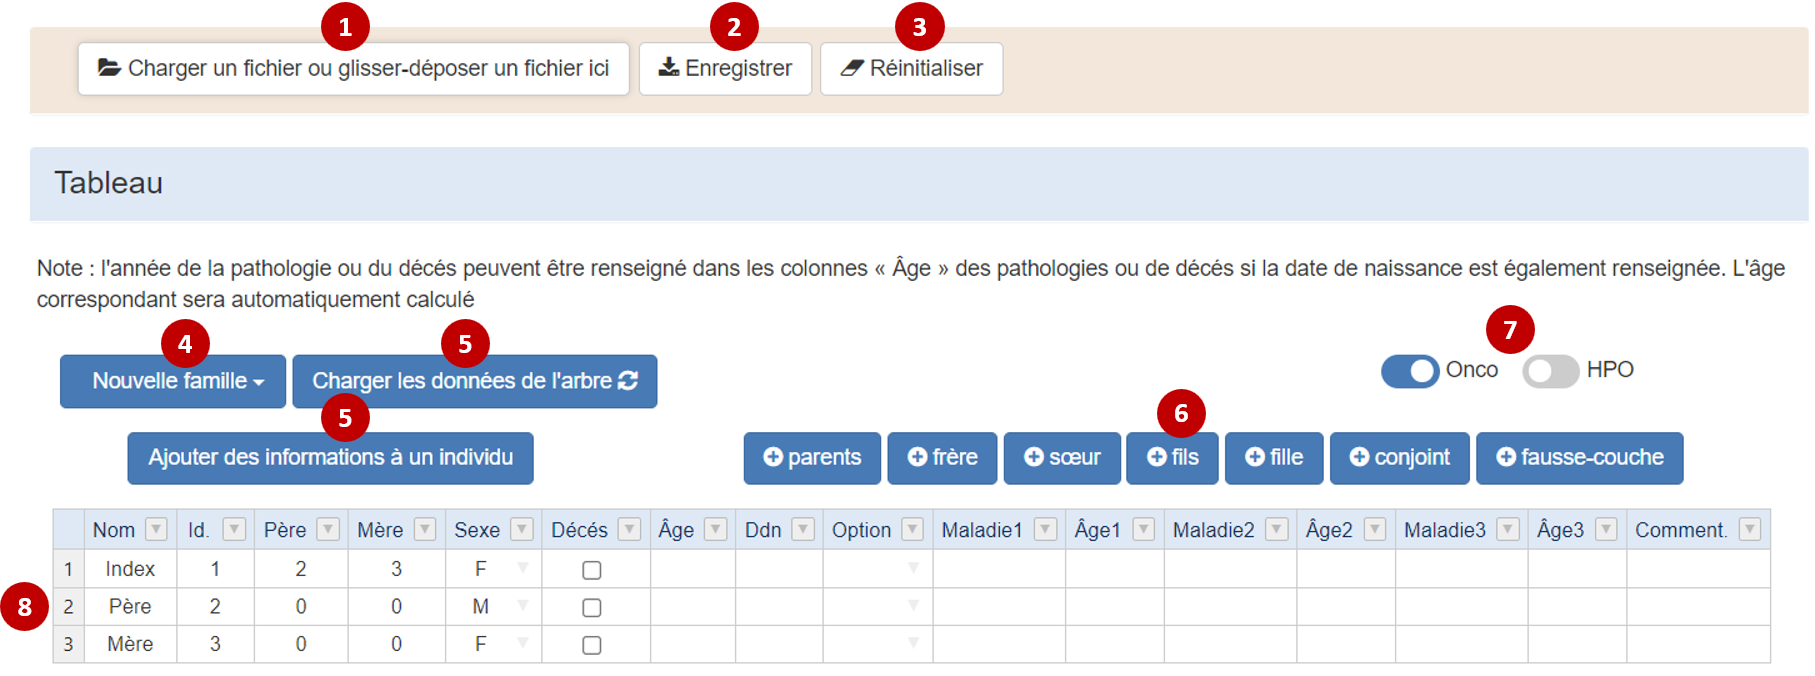
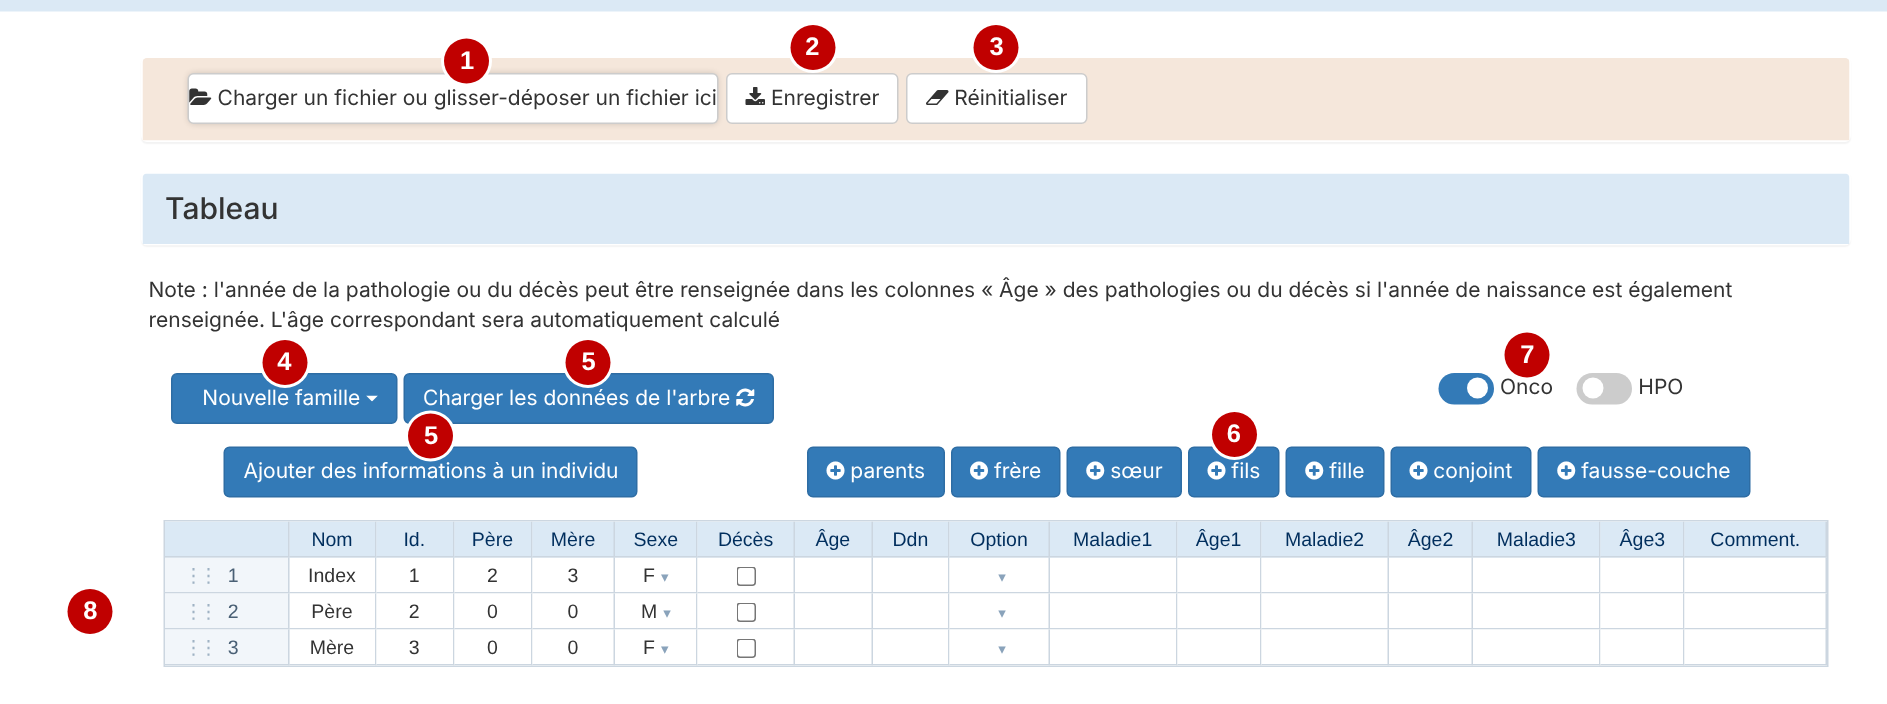
Update the README, the guide and the About page
- README rewritten: features, privacy, pages, code layout, tests, credits;
  Handsontable is no longer a base of the tool
- guide: the table paragraph describes the current table (keyboard, copy and
  paste, undo, lists, drag handle, delete button, protected index line);
  Figure 1 regenerated from the current tool
- About: export list completed (CanRisk, GEDCOM), patient interface and
  privacy mentioned
- French typos in the table note and guide ("décès", agreement)
- package.json: unused handsontable dependency removed

diff --git a/lang/lang.fr.js b/lang/lang.fr.js
@@ -7,7 +7,7 @@ var lang = {
     title:"GeneTree",
     subtitle:"Un outil intégré pour construire un arbre généalogique, téléchargeable en fichier BOADICEA, et l'histoire clinique d'une famille.",
     
-    introduction_txt:"Note : l'année de la pathologie ou du décés peuvent être renseigné dans les colonnes « Âge » des pathologies ou de décés si la date de naissance est également renseignée."+
+    introduction_txt:"Note : l'année de la pathologie ou du décès peut être renseignée dans les colonnes « Âge » des pathologies ou du décès si l'année de naissance est également renseignée."+
     " L'âge correspondant sera automatiquement calculé",
 
     title_table:"Tableau",
@@ -87,15 +87,17 @@ var lang = {
     "Cet outil dispose d'un mode spécifique pour la consultation d'oncogénétique et d’un mode utilisant les phénotypes HPO. ",
     about_text2:"La famille peut être chargée (fichiers JSON ou BOADICEA) ou créée à partir d'une structure standard ou personnalisée, "+ 
     "puis complétée via un tableau ou une interface graphique, tous deux interconnectés. \n",
-    about_text3: "L'arbre est exportable dans plusieurs formats de fichiers (TSV, JSON, PED, BOADICEA) et modifiable "+ 
+    about_text3: "L'arbre est exportable dans plusieurs formats de fichiers (TSV, JSON, PED, BOADICEA, CanRisk, GEDCOM) et modifiable "+ 
     "par un éditeur vectoriel (format PDF, SVG) ou peut être imprimé directement. \n",
     about_text4:"Enfin, cette application permet la génération automatique de texte à partir du contenu du tableau correspondant "+ 
     "à l’histoire personnelle et familiale du patient.  Il s’agit, à ma connaissance, de la seule solution permettant "+ 
     "ainsi de rédiger en un clic une partie importante du compte-rendu de consultation.\n",
     about_text5:"L’interface en ligne optimisée pour le navigateur Google Chrome permet une utilisation simple sans nécessiter d’installation préalable. "+
     "Cet outil a été particulièrement pensé pour les consultations d'oncogénétique afin d'éviter la triple saisie "+ 
-    "(texte – arbre généalogique - score de risque Boadicea ou CanRisk).\n",
-    about_text6:"GeneTree est développé est maintenu par le Dr Jean-Marie Ravel avec la participation des membres de l'équipe de génétique clinique "+
+    "(texte – arbre généalogique - score de risque Boadicea ou CanRisk).\n" +
+    "Une interface patient permet en outre au patient de saisir son histoire familiale avant la consultation, sur ordinateur ou sur téléphone. " +
+    "Aucune donnée n'est envoyée à un serveur : tout le traitement se fait dans le navigateur.\n",
+    about_text6:"GeneTree est développé et maintenu par le Dr Jean-Marie Ravel avec la participation des membres de l'équipe de génétique clinique "+
     "du CHRU de Nancy (France).",
 
     //guide
@@ -112,9 +114,11 @@ var lang = {
     guide_intro3:"Il existe également deux modes d'utilisation optionnels permettant de restreindre les pathologies (7) :",
     guide_introOnco:"le mode 'onco' est destiné aux consultations d'oncogénétique. Il permet de pré-remplir la liste des pathologies avec les cancers fréquents",
     guide_introHPO:"le mode 'HPO' limite la liste des pathologies aux symptômes et maladies des bases HPO et ORPHAdata.",
-    guide_intro4:"Le tableur (8) est également utilisable comme un tableur excel : il est possible de copier et coller des lignes. "+
-    "Il est possible également de sélectionner une ou plusieurs lignes et de les glisser à une autre position. Cela peut être utile lorsque"+
-    "l'arbre généré a des branches croisées.",
+    guide_intro4:"Le tableau (8) s'utilise comme un tableur : saisie directe au clavier (Entrée, Tab, flèches), copier-coller de cellules avec Excel, "+
+    "annulation (Ctrl+Z) et rétablissement (Ctrl+Y). Un clic sur une cellule « Sexe » ou « Option » ouvre sa liste ; un clic sur une cellule de pathologie ouvre la liste des cancers ou des termes HPO." + "\n" +
+    "Pour déplacer une ligne, faites-la glisser par la poignée (⋮⋮) située à gauche de son numéro : cela peut être utile lorsque "+
+    "l'arbre généré a des branches croisées. Pour supprimer une ligne, cliquez sur la croix (×) qui apparaît au survol de son numéro. " +
+    "Le cas index et ses ascendants ne peuvent pas être supprimés ; pour une personne ayant des enfants, la liste des personnes supprimées avec elle est affichée avant confirmation.",
     guide_famTitle:"Création d'une famille",
     guide_famTitle1:"Chargement d'un fichier",
     guide_fam0:"Une famille déjà créée peut être chargée grâce au bouton dédié (1). " +
@@ -137,7 +141,7 @@ var lang = {
     guide_mod0: "Une fois un individu sélectionné, il est possible de cliquer sur les boutons afin d'ajouter un apparenté (6) : frère, soeur, fils, fille, parents, nouveau conjoint, fausse-couche.",
     guide_modTitle2:"Personnalisation d'un individu",
     guide_mod1:"Plusieurs paramètres peuvent être remplis pour chaque individu : genre, décès, âge, année de naissance, pathologie avec âge de début etc. " +
-    "L'année d'une pathologie ou du décés peuvent être renseignés dans les colonnes « Âge » des pathologies ou de décés si la date de naissance est également précisée. " +
+    "L'année d'une pathologie ou du décès peut être renseignée dans les colonnes « Âge » des pathologies ou du décès si l'année de naissance est également précisée. " +
     "L'âge correspondant sera automatiquement calculé." + "\n" +
     "Un champs 'commentaire' est également existant et son contenu ajouté dans le texte généré.",
     guide_mod2:"Un menu supplémentaire existe pour remplir d'autres informations et en particulier les données nécessaires au calcul du CanRisk. " +

diff --git a/lang/lang.eng.js b/lang/lang.eng.js
@@ -84,14 +84,16 @@ var lang = {
     "This tool has a specific mode for oncogenetic consultation and a mode using HPO phenotypes. ",
     about_text2: "The family can be loaded (JSON or BOADICEA files) or created from a standard or custom structure, "+
     "and then filled in via a table or GUI, both of which are interconnected. \n",
-    about_text3: "The pedigree can be exported in several file formats (TSV, JSON, PED, BOADICEA) and modified "+
+    about_text3: "The pedigree can be exported in several file formats (TSV, JSON, PED, BOADICEA, CanRisk, GEDCOM) and modified "+
     " by a vector editor (PDF, SVG format) or can be printed directly. \n",
     about_text4: "Finally, this application allows the automatic generation of text from the content of the table corresponding "+
     "to the personal and family history of the patient.  To my knowledge, this is the only solution allowing "+ 
     "to write an important part of the consultation report in one click\n",
     about_text5: "The online interface, optimised for the Google Chrome browser, makes it easy to use without the need for prior installation. "+
     "This tool has been especially designed for oncogenetic consultations in order to avoid triple entry "+ 
-    "(text - family tree - Boadicea or CanRisk score)\n",
+    "(text - family tree - Boadicea or CanRisk score).\n" +
+    "A patient interface also lets patients enter their family history before the consultation, on a computer or a phone. " +
+    "No data is sent to a server: everything is processed in the browser.\n",
     about_text6: "GeneTree is developed and maintained by Dr Jean-Marie Ravel with the participation of members of the clinical genetics team "+
     " of the Nancy University Hospital (France).",
 
@@ -109,9 +111,11 @@ var lang = {
     guide_intro3:"There are also two optional modes of use to restrict pathologies (7):",
     guide_introOnco:"the 'onco' mode is intended for oncogenetic consultations. It allows the list of pathologies to be pre-filled with frequent cancers.",
     guide_introHPO:"The 'HPO' mode limits the list of conditions to symptoms and diseases in the HPO and ORPHAdata databases.",
-    guide_intro4:"The spreadsheet (8) can also be used as an Excel spreadsheet: it is possible to copy and paste rows. "+
-    "It is also possible to select one or more rows and drag them to another position. This can be useful when "+
-    "the generated pedigree has crossed branches",
+    guide_intro4:"The table (8) works like a spreadsheet: type straight into a cell (Enter, Tab, arrow keys), copy and paste cells with Excel, "+
+    "undo (Ctrl+Z) and redo (Ctrl+Y). A click on a 'Gender' or 'Option' cell opens its list; a click on a disease cell opens the list of cancers or HPO terms." + "\n" +
+    "To move a row, drag it by the handle (⋮⋮) to the left of its number: this can be useful when "+
+    "the generated pedigree has crossed branches. To delete a row, click the cross (×) that appears when the pointer is over its number. " +
+    "The index case and his or her ancestors cannot be deleted; for a person with children, the list of people deleted with them is shown before confirmation.",
     guide_famTitle:"Creating a family",
     guide_famTitle1:"Loading a file",
     guide_fam0:"A family already created can be loaded using the dedicated button (1). " +

diff --git a/README.md b/README.md
@@ -1,20 +1,73 @@
+# GeneTree
 
-## GeneTree
-This work is an integrate tool to help clinical geneticist, especially french-speaking. It also has a special mode for oncologic consultation and one HPO-based.
-It is based on pedigreejs and handsontable javascript modules to allow fast pedigree construction.
-Familly can be loaded (JSON or BOADICEA files) or created from standard or custom structure and then completed through a table or an graphic interconnected interface.
-Numerous export files are also implemented (TSV, JSON, PED, BOADICEA).
-Finally, one of the core feature is the automatic text generation based on the table content.
+**https://jimouse.github.io/GeneTree/**
 
+GeneTree is an integrated tool for clinical geneticists and genetic counsellors, in French and English. It builds a pedigree quickly, exports it to the usual formats and writes the family-history text of the consultation letter. It has a dedicated mode for cancer genetics consultations and an HPO-based mode.
 
-Cette application est un outil intégré pour aider les généticiens cliniciens dans le cadre de leur consultation, notamment francophones.
-Il dispose également d'un mode spécial pour la consultation d'oncogénétique ainsi qu'un se basant sur les phénotypes HPO.
-Il est basé sur pedigreejs et handsontables pour permettre une construction rapide d'un arbre généalogique.
-La famille peut être chargée (fichiers JSON ou BOADICEA) ou créée à partir d'une structure standard ou personnalisée, puis complétée via un tableau ou une interface graphique, tout deux interconnectées.
-L'arbre est exportable dans plusieurs format de fichiers (TSV, JSON, PED, BOADICEA).
-Enfin, cette application permet la génération automatique de texte basée sur le contenu du tableau.
+*GeneTree est un outil intégré pour les généticiens cliniciens et les conseillers en génétique, en français et en anglais. Il permet de construire rapidement un arbre généalogique, de l'exporter dans les formats usuels et de générer le texte de l'histoire familiale du compte rendu. Il dispose d'un mode dédié à l'oncogénétique et d'un mode basé sur HPO.*
 
-# Based on
-Pedigreejs : https://ccge-boadicea.github.io/pedigreejs/
-Handsontable : https://github.com/handsontable/handsontable
-HPO : https://github.com/drseb/HPO-translations
+## Features
+
+- **Family table and pedigree drawing, interconnected.** A family is loaded from a file (JSON, BOADICEA, CanRisk, PED), created from a standard or custom structure, then completed in a spreadsheet-like table or directly on the drawing.
+- **A table that works like a spreadsheet:** keyboard editing, copy and paste with Excel, undo and redo, rows moved by dragging, lists for sex and options, a cancer or HPO picker for diseases.
+- **Automatic text:** the personal and family history is written from the table, in French or English.
+- **Exports:** GeneTree JSON, TSV, PED, BOADICEA, CanRisk, GEDCOM, pedigreejs JSON; the drawing as SVG, image or PDF (print).
+- **Patient interface** ([docs/patient.html](https://jimouse.github.io/GeneTree/docs/patient.html)): a form the patient fills in before the consultation, on a computer or a phone. It produces two files (GeneTree and CanRisk) that the patient sends to the practitioner.
+- **Guide** ([docs/guide.html](https://jimouse.github.io/GeneTree/docs/guide.html)) and **About** ([docs/about.html](https://jimouse.github.io/GeneTree/docs/about.html)) pages.
+
+## Privacy
+
+GeneTree is a static site: everything runs in the browser.
+
+- No data is sent to or stored on any server.
+- No third-party server is contacted: every library is served from this repository.
+- The tool keeps the family in the browser tab's session storage, which is cleared when the tab is closed.
+- The patient interface gives the patient files to download; how they reach the practitioner is the patient's and the department's choice.
+
+## Pages
+
+| Page | Role |
+|---|---|
+| `index.html` | The tool: table, pedigree, text, exports |
+| `docs/patient.html` | Patient interface |
+| `docs/guide.html`, `docs/about.html` | Guide and description |
+| `tool.html` | Forwards to `index.html` |
+| `tool-handsontable.html`, `docs/user-interface.html` | Previous versions of the tool and of the patient interface, kept as fallbacks and not linked |
+
+## Code
+
+- `js/data-grid.js`: the tool's table (DataGrid), a dependency-free spreadsheet.
+- `js/person-table.js`: the patient interface's cards (PersonTable).
+- `js/main.js`, `js/main_front.js`, `js/hotTable.js`, `js/indexWidgets.js`: the tool's logic (families, table rules, exports).
+- `js/user-interface.js`: the patient interface's logic.
+- `js/pedigree.js`, `js/widgets.js`, `js/io.js`, `js/canrisk_file.js`…: pedigree drawing and file formats, from pedigreejs.
+- `lang/`: texts and text generation in French (`*.fr.js`) and English (`*.eng.js`).
+- `package/`: third-party libraries, served locally.
+
+## Tests
+
+The tests drive the pages in a real browser (Playwright) with the mouse and keyboard, and compare what the pages produce. See the README in each folder.
+
+- `tests/tool-page/`: 38 families compared between the current and previous tool (table, pedigree, text and the 7 exports), the fixed bugs, and the table's spreadsheet features.
+- `tests/patient-page/`: 35 families compared between the current and previous patient interface, and the fixed bugs.
+- `tests/language/`: the language switch on every page.
+
+```bash
+npm install playwright && npx playwright install chromium   # once
+python3 -m http.server 8000                                 # from the folder that contains GeneTree/
+node tests/tool-page/grid_features.js http://localhost:8000/GeneTree/
+```
+
+## Based on
+
+- [pedigreejs](https://ccge-boadicea.github.io/pedigreejs/): pedigree drawing and the BOADICEA / CanRisk formats
+- [HPO translations](https://github.com/drseb/HPO-translations) and ORPHAdata: phenotype and disease lists
+- jQuery, jQuery UI, Bootstrap, d3 and Font Awesome
+
+Until November 2026 the tables were built with [Handsontable](https://github.com/handsontable/handsontable). It is now used only by the two fallback pages.
+
+## Authors and licence
+
+GeneTree is developed and maintained by Dr Jean-Marie Ravel, with the participation of the clinical genetics team of the CHRU de Nancy (France).
+
+GeneTree's own code is released under the [GPL-3.0](LICENSE) licence. The libraries in `package/` keep their own licences.
